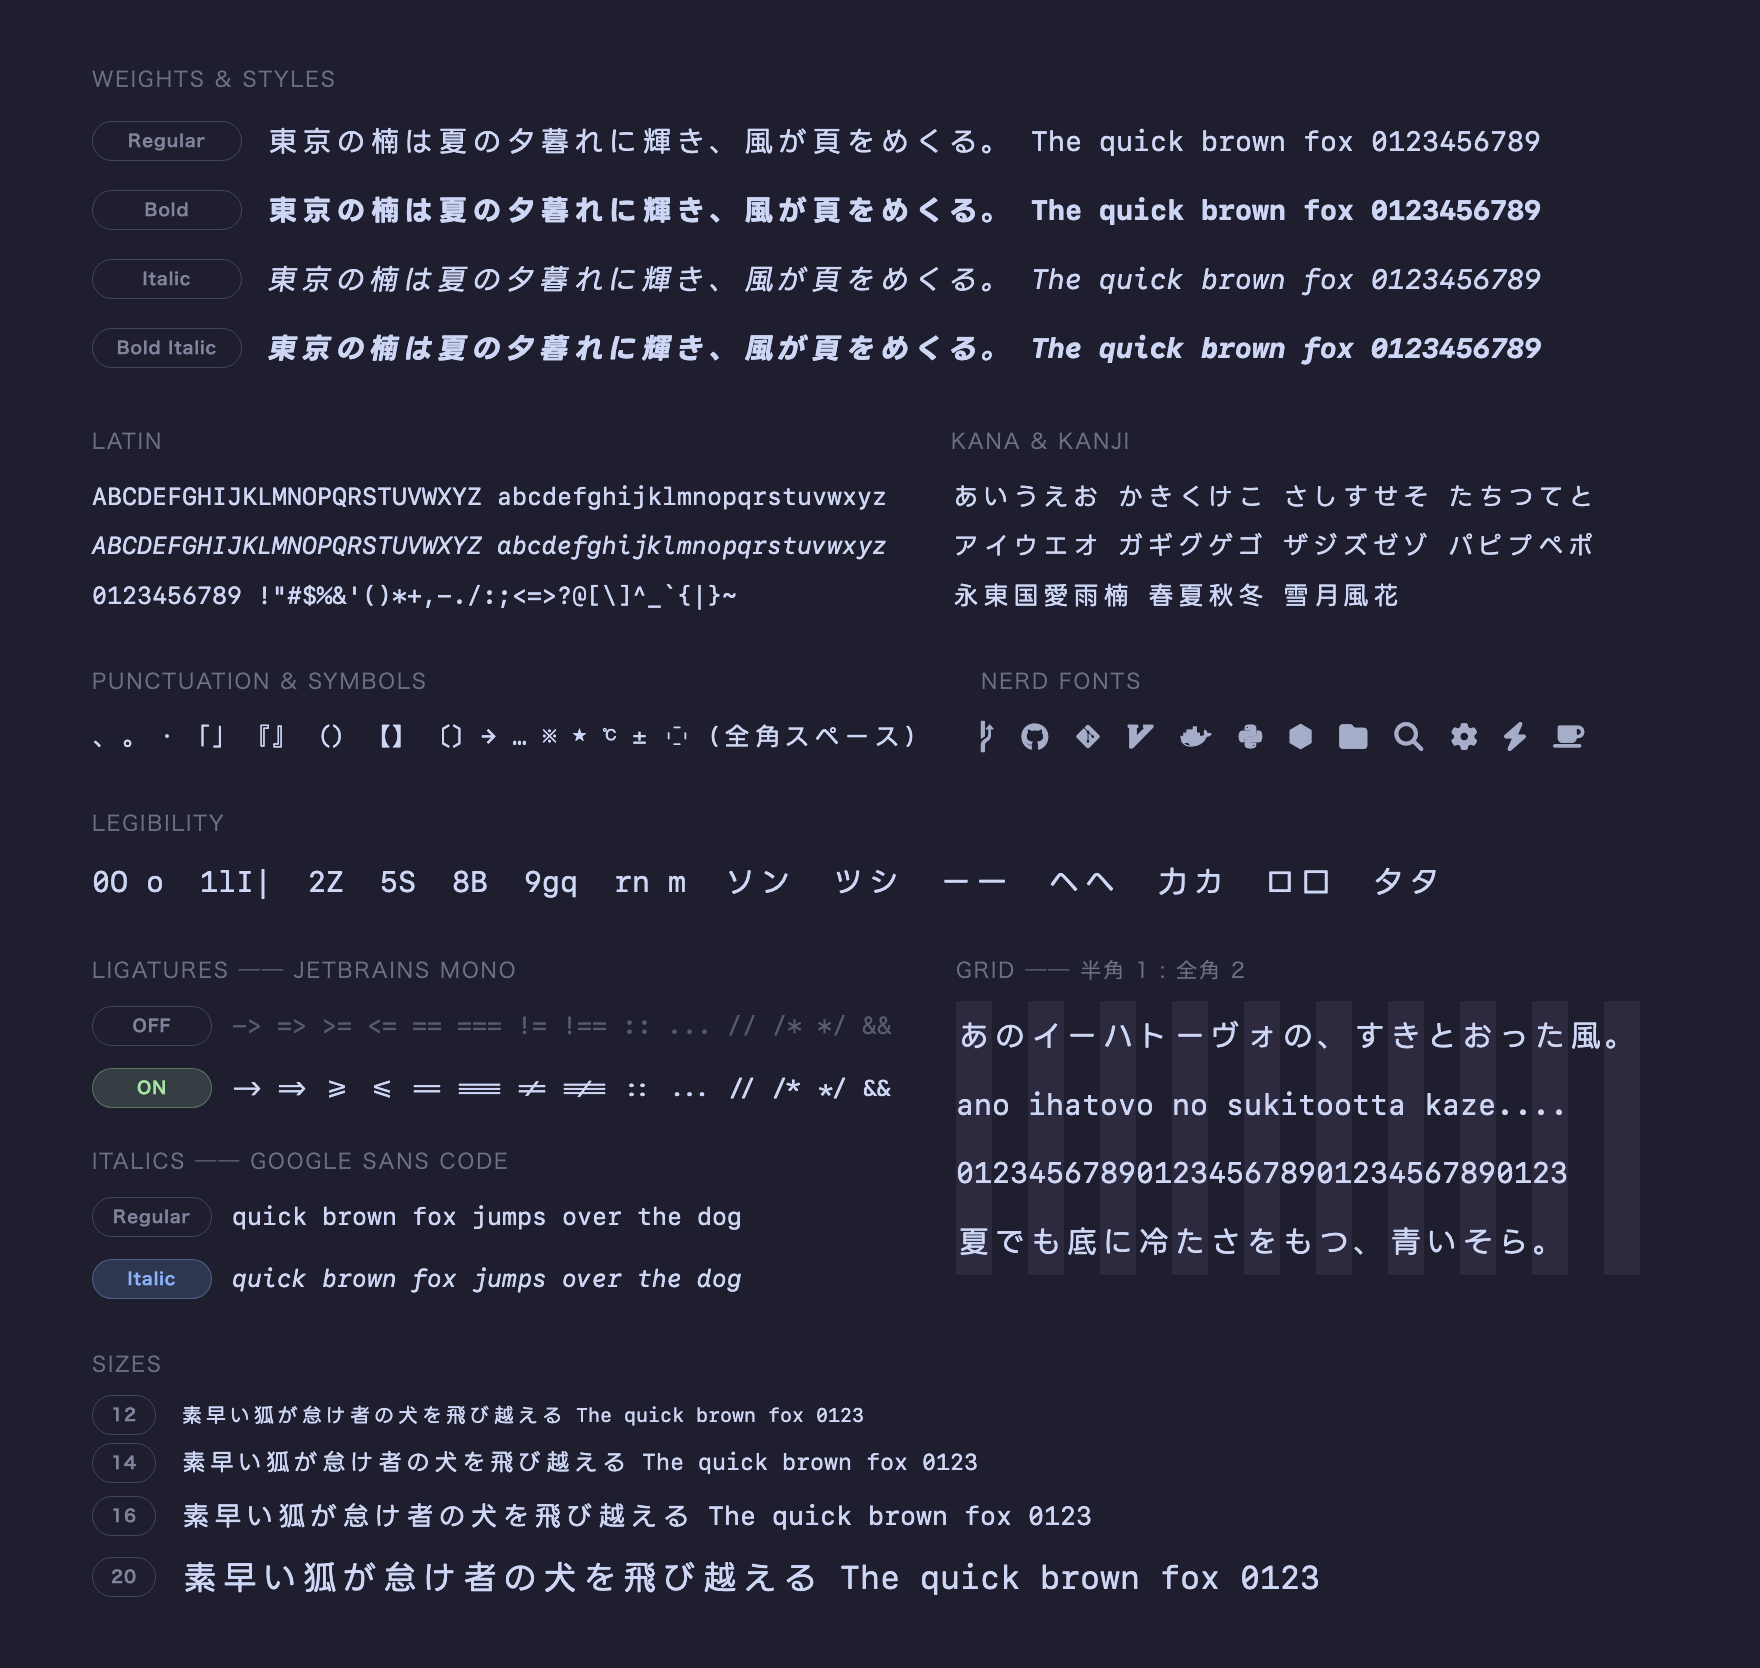
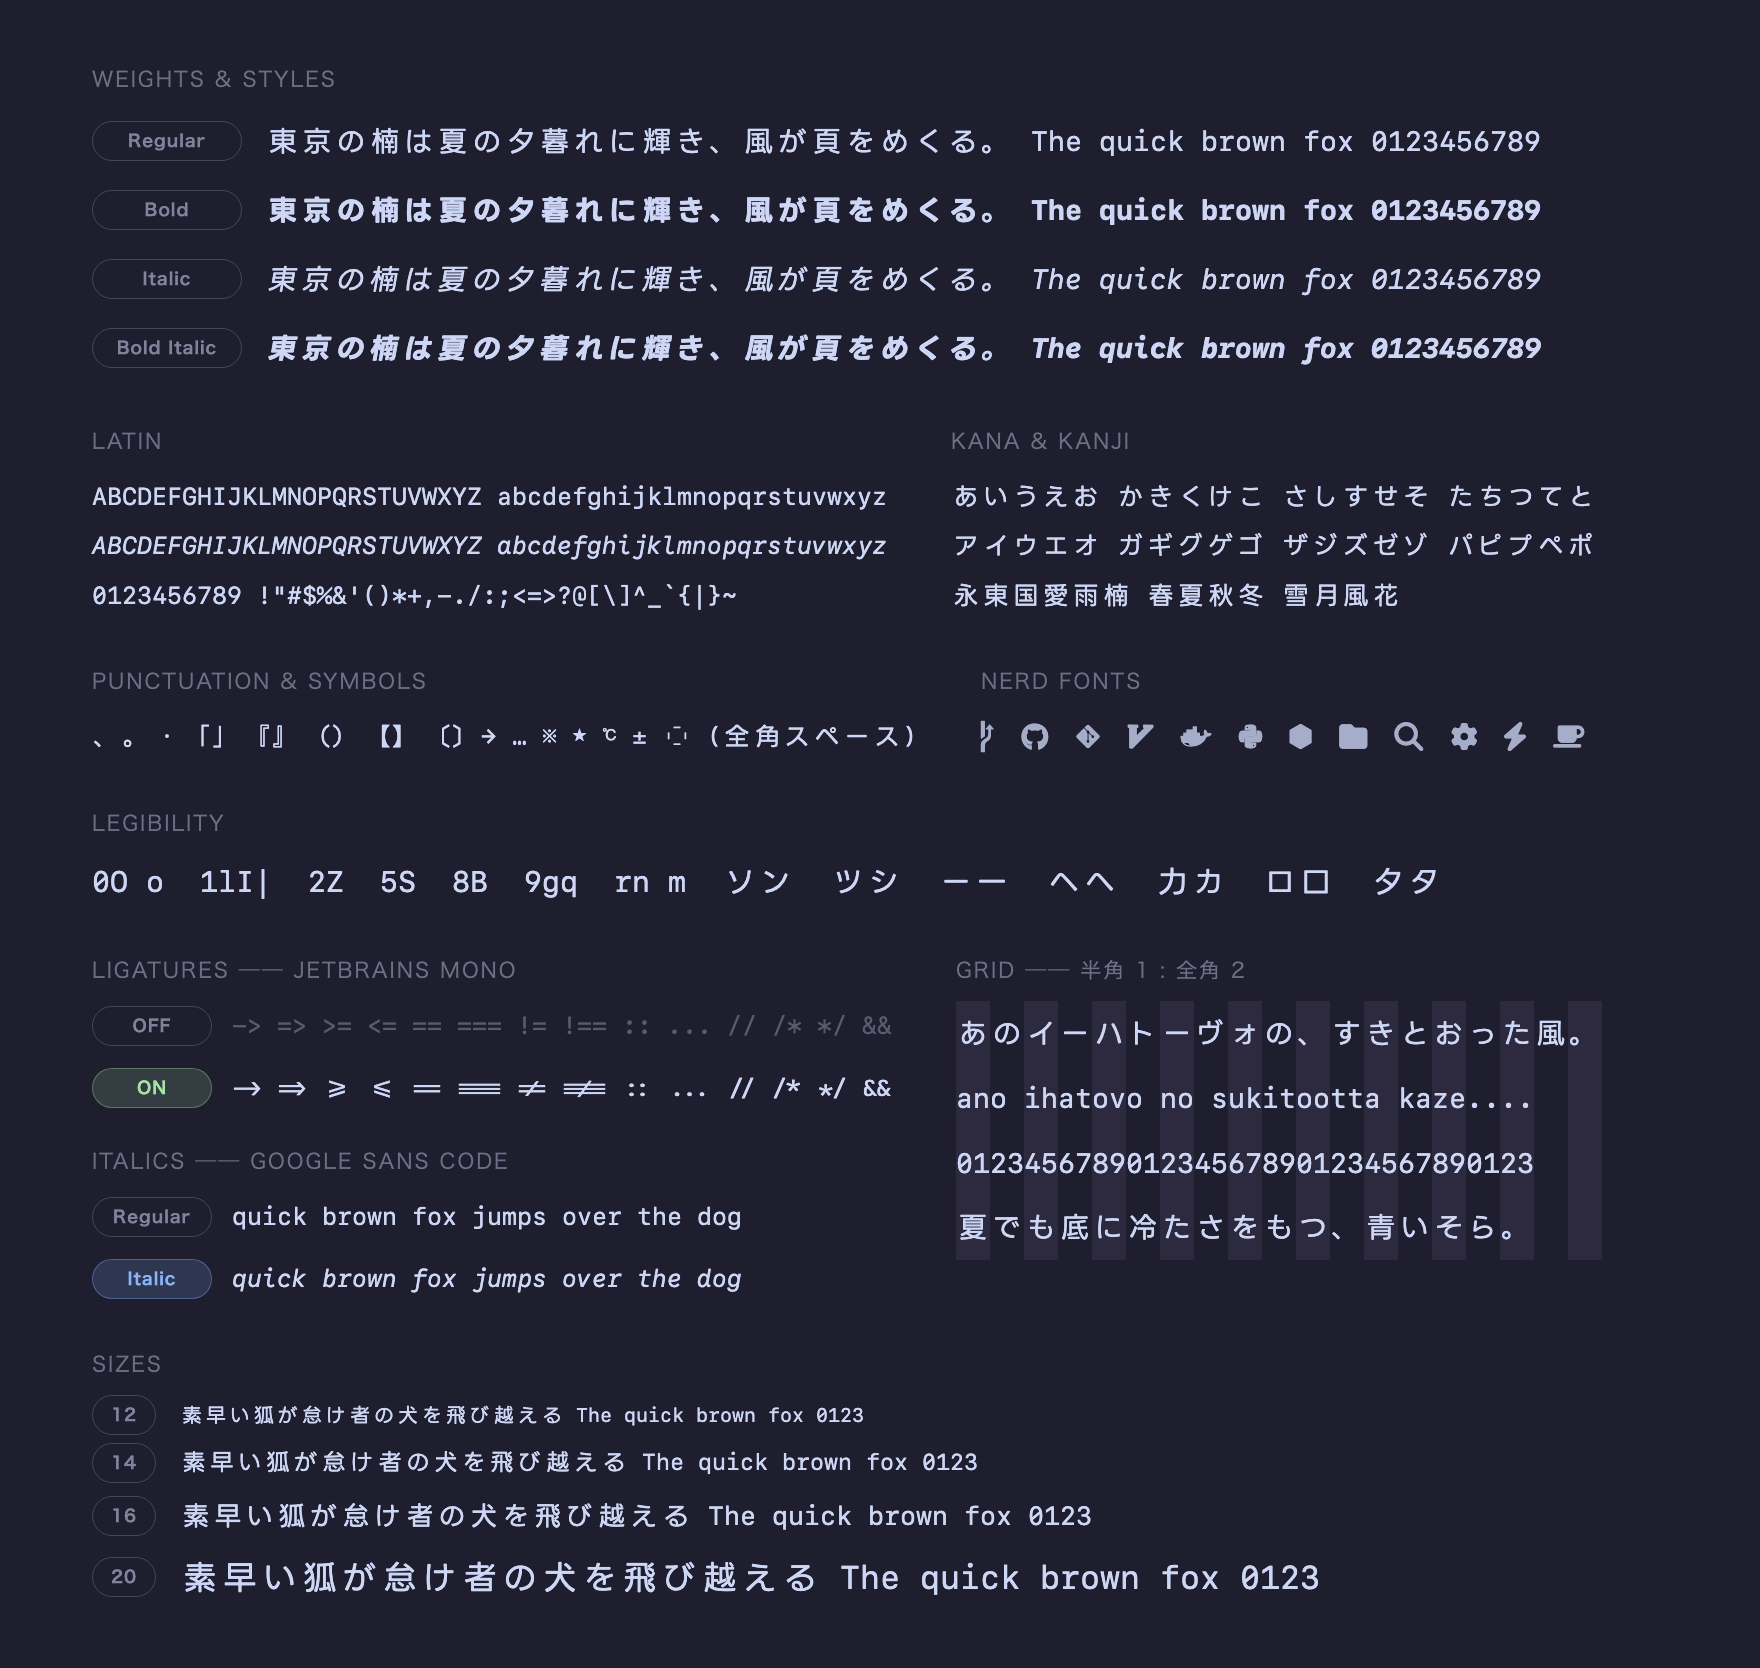
Nudge the grid demo down a size

diff --git a/docs/images/src/specimen.html b/docs/images/src/specimen.html
@@ -28,7 +28,7 @@ pre { font-family:inherit; white-space:pre; font-feature-settings:"calt" on; fon
 .leg pre { font-size:36px; line-height:1.55; }
 .icons pre { font-size:31px; letter-spacing:6px; color:#a6adc8; line-height:1.6; }
 .grid pre {
-  display:inline-block; font-size:36px; line-height:1.9;
+  display:inline-block; font-size:34px; line-height:1.9;
   background:repeating-linear-gradient(90deg, rgba(203,166,247,.085) 0 2ch, transparent 2ch 4ch);
 }
 .lrow { display:flex; align-items:center; gap:20px; }